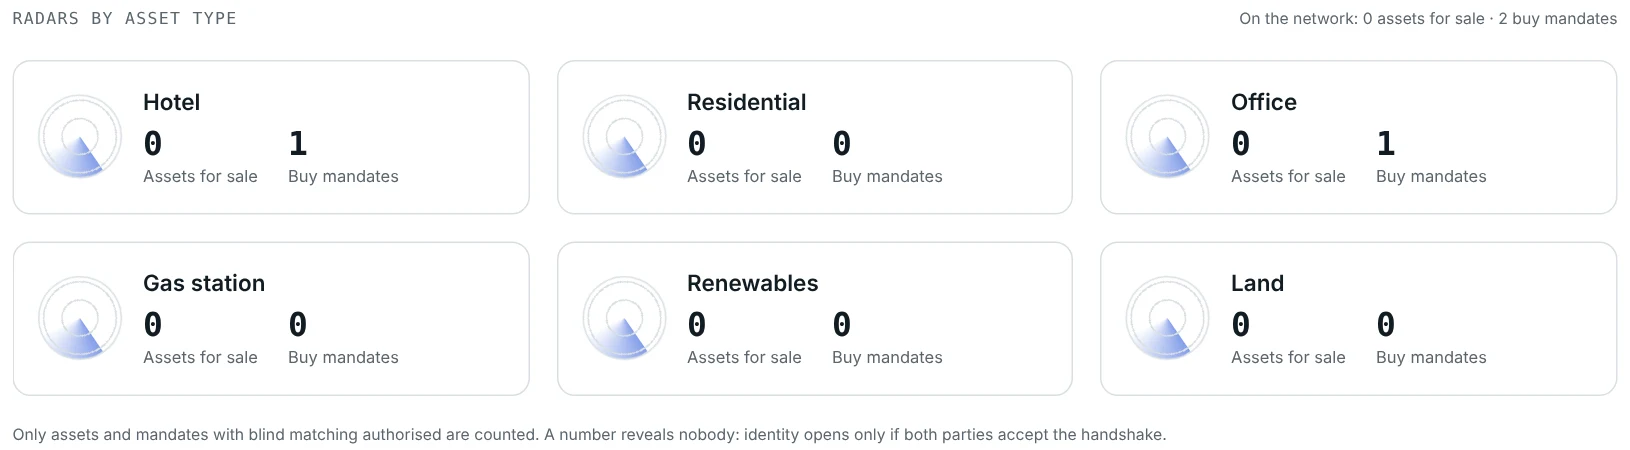
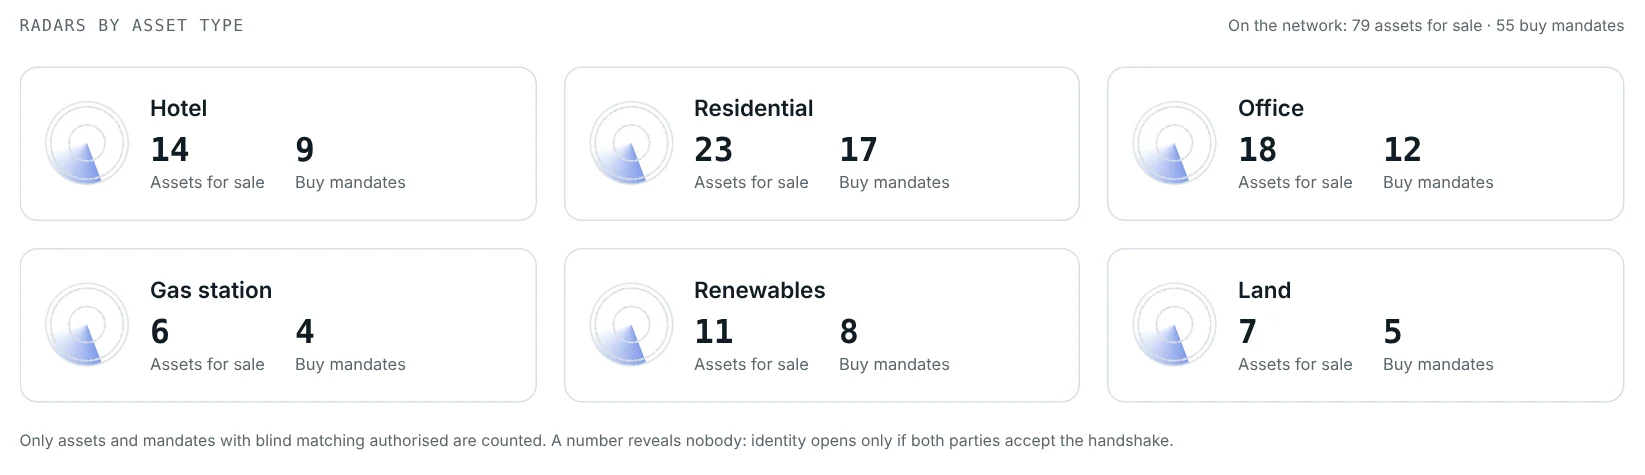
Radar: captura con datos de ejemplo más llenos
Claude-Session: https://claude.ai/code/session_012ZKGi8uYrAkbwXACGn8c6A

diff --git a/index.html b/index.html
@@ -110,7 +110,7 @@
         </section>
 
         <section class="darkpool-section section-pad" id="dark-pool" aria-labelledby="darkpool-title"><div class="darkpool-content"><div class="section-kicker light"><span>05</span><span data-i18n="darkpool.kicker">THE DARK POOL</span></div><h2 id="darkpool-title" data-i18n="darkpool.title">The liquidity that<br /><em>doesn’t appear in a catalogue.</em></h2><p data-i18n="darkpool.body">Some assets should not be published. Some buyers do not want to announce themselves. LoptorCRE creates the point of connection without sacrificing the confidentiality of the process.</p><div class="darkpool-principle"><span>01</span><b data-i18n="darkpool.principle">Fit first. Identity later.</b><span>02</span></div></div><figure class="dp-shot"><div class="dp-frame"><img src="/app/match-proposed.webp" width="1000" height="1583" alt="Blind match: anonymous opportunity spec sheet with the True Fit score, no identity revealed" loading="lazy" /></div><figcaption><span class="dp-lock">⌾ <span data-i18n="darkpool.lock">Identity protected until consent</span></span><small data-i18n="shots.note">Real app screens · fictional data</small></figcaption></figure></section>
-        <section class="matching-section section-pad" id="matching" aria-labelledby="matching-title"><div class="section-intro"><div class="section-kicker"><span data-i18n="matching.kicker">HOW THE MATCH WORKS</span></div><h2 id="matching-title" data-i18n="matching.title">A match you can explain,<br /><em>not a black box.</em></h2><p data-i18n="matching.intro">AI helps structure your documents. The match itself is calculated by transparent rules, so the same asset and the same mandate always produce the same result.</p></div><ol class="matching-steps"><li><span>01</span><b data-i18n="matching.s1t">Hard filters first</b><p data-i18n="matching.s1b">Asset type, ticket range, authorisation from both parties and the buyer’s exclusions. If one fails, there is no match.</p></li><li><span>02</span><b data-i18n="matching.s2t">Only documented data</b><p data-i18n="matching.s2b">The score reads what is documented and sourced in the dossier. What is missing adds nothing: the engine never estimates a figure.</p></li><li><span>03</span><b data-i18n="matching.s3t">A True Fit score</b><p data-i18n="matching.s3b">Each criterion the mandate declares is weighted. A match is proposed from 85% True Fit.</p></li><li><span>04</span><b data-i18n="matching.s4t">Identity later</b><p data-i18n="matching.s4b">Both sides see an anonymous spec sheet. Names and contacts are released only when both approve.</p></li></ol><div class="radar-note"><b data-i18n="matching.rt">The radar, working in the background</b><p data-i18n="matching.rb">The radar crosses the assets and mandates that each side has authorised for blind matching. It only surfaces matches that reach 85% True Fit, and it shows the zone, never the address.</p><div class="radar-shot" tabindex="0" role="region" aria-label="Radar screen"><img src="/app/radar.webp" width="1630" height="450" alt="Dark Pool and Matching screen: one radar per asset type with its assets for sale and buy mandates" loading="lazy" /></div></div></section>
+        <section class="matching-section section-pad" id="matching" aria-labelledby="matching-title"><div class="section-intro"><div class="section-kicker"><span data-i18n="matching.kicker">HOW THE MATCH WORKS</span></div><h2 id="matching-title" data-i18n="matching.title">A match you can explain,<br /><em>not a black box.</em></h2><p data-i18n="matching.intro">AI helps structure your documents. The match itself is calculated by transparent rules, so the same asset and the same mandate always produce the same result.</p></div><ol class="matching-steps"><li><span>01</span><b data-i18n="matching.s1t">Hard filters first</b><p data-i18n="matching.s1b">Asset type, ticket range, authorisation from both parties and the buyer’s exclusions. If one fails, there is no match.</p></li><li><span>02</span><b data-i18n="matching.s2t">Only documented data</b><p data-i18n="matching.s2b">The score reads what is documented and sourced in the dossier. What is missing adds nothing: the engine never estimates a figure.</p></li><li><span>03</span><b data-i18n="matching.s3t">A True Fit score</b><p data-i18n="matching.s3b">Each criterion the mandate declares is weighted. A match is proposed from 85% True Fit.</p></li><li><span>04</span><b data-i18n="matching.s4t">Identity later</b><p data-i18n="matching.s4b">Both sides see an anonymous spec sheet. Names and contacts are released only when both approve.</p></li></ol><div class="radar-note"><b data-i18n="matching.rt">The radar, working in the background</b><p data-i18n="matching.rb">The radar crosses the assets and mandates that each side has authorised for blind matching. It only surfaces matches that reach 85% True Fit, and it shows the zone, never the address.</p><div class="radar-shot" tabindex="0" role="region" aria-label="Radar screen"><img src="/app/radar.webp" width="1645" height="475" alt="Dark Pool and Matching screen: one radar per asset type with its assets for sale and buy mandates" loading="lazy" /></div></div></section>
 
         <section class="portfolio-section section-pad" aria-labelledby="portfolio-title"><div class="portfolio-head"><div><div class="section-kicker"><span>06</span><span data-i18n="portfolio.kicker">FOR THE WHOLE PORTFOLIO</span></div><h2 id="portfolio-title" data-i18n="portfolio.title">From one asset<br /><em>to a clearer portfolio.</em></h2></div><p data-i18n="portfolio.body">When opportunities multiply, you need to know what is documented, what is ready to present and where new connections are forming.</p></div><div class="pf-shots"><figure class="pf-card"><img src="/app/readiness.webp" width="1400" height="893" alt="Teaser readiness map: coverage by investor question" loading="lazy" /></figure><figure class="pf-card"><img src="/app/mandates.webp" width="1400" height="835" alt="Buy-side mandates with ticket, target markets and exclusions" loading="lazy" /></figure><p class="hs-note" data-i18n="shots.note">Real app screens · fictional data</p></div></section>
 
